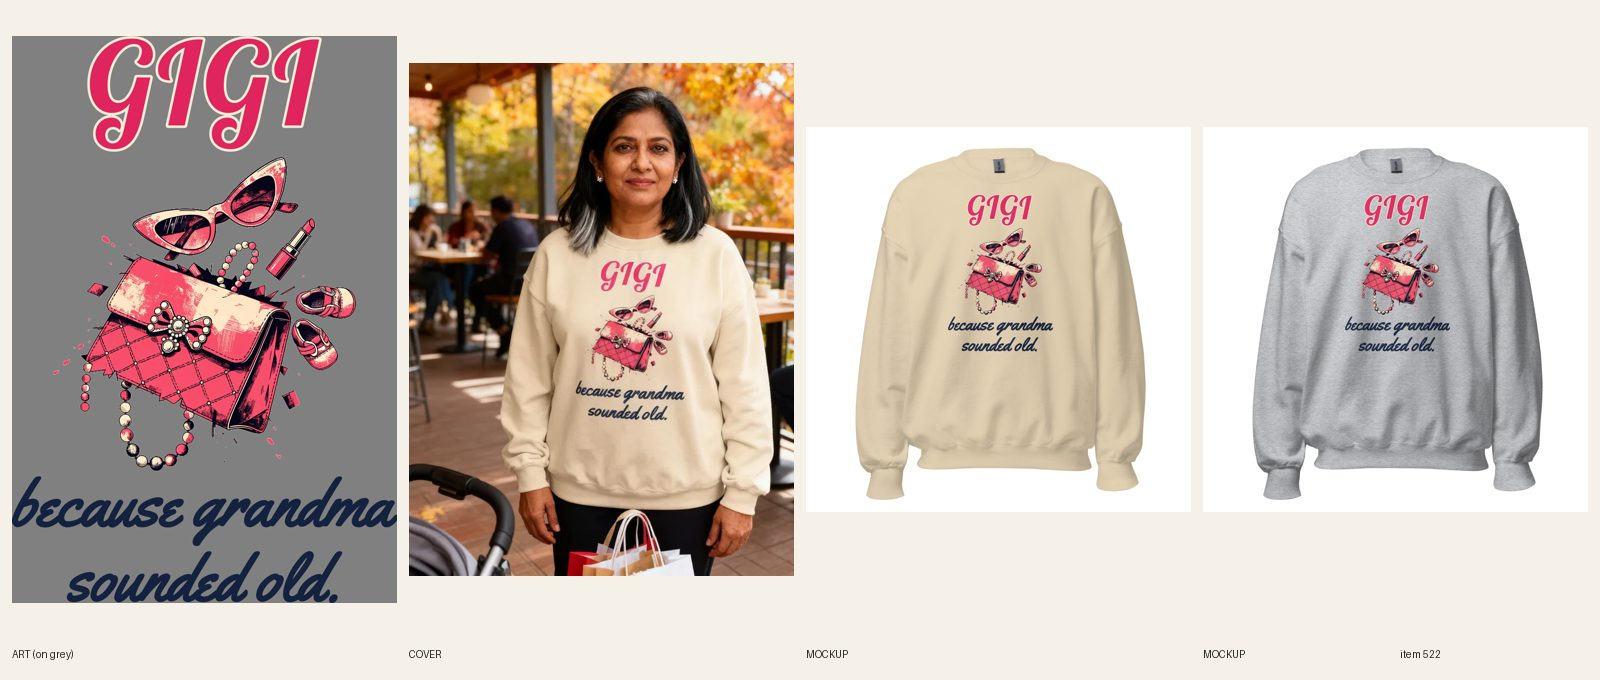
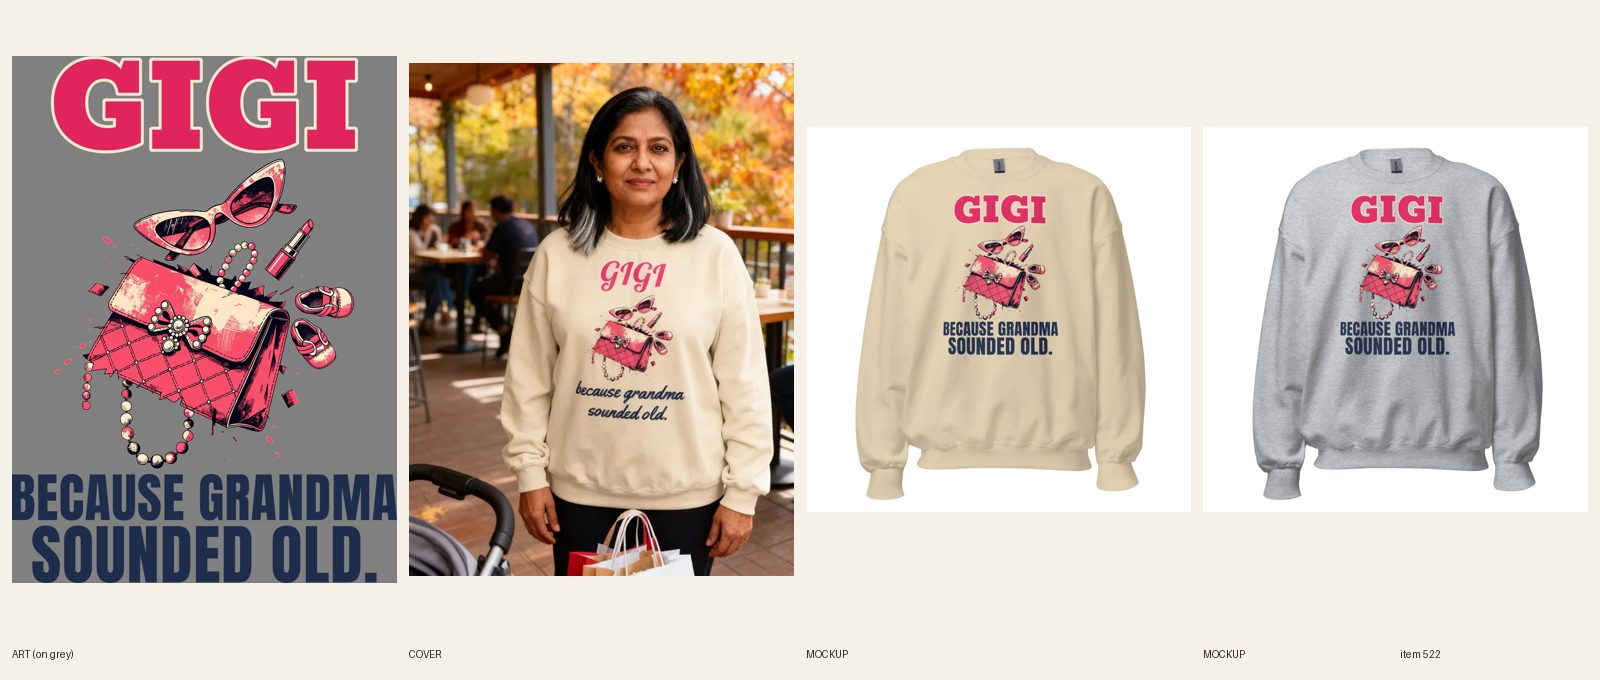
[B] review 522 Gigi crewneck (type redo)
Claude-Session: https://claude.ai/code/session_01R3UUGXWWK1qjEqDj6Mz2Rh

Changed region(s): [[0.0, 0.0309, 0.25, 0.8956], [0.8125, 0.2779, 0.9062, 0.525], [0.5938, 0.2779, 0.6875, 0.525]]

diff --git a/docs/pipeline/522-gigi-crew-because-grandma-sounded-old.md b/docs/pipeline/522-gigi-crew-because-grandma-sounded-old.md
@@ -1,4 +1,4 @@
-status: BUILDING [B] 2026-10-19 19:40
+status: REVIEW
 lane: B
 type: new
 id: 522
@@ -31,3 +31,4 @@ kd: 48
 - 2026-10-18 02:40 UTC builder [B]: full build. Art: 1 Recraft call, kept (quilted pink handbag tipped open, cat-eye sunglasses, lipstick, pearls, baby shoes). GIGI (Lobster, hot pink-red #e0245e, cream keyline, about 85% of the art width) above; "because grandma / sounded old." re-set on TWO lines in bold Yellowtail (520 px, thin same-color keyline) below, after the first one-line thin script read small on the Sport Grey mockup at phone size (7b): the joke line is now readable at 400 px. Colors Sand + Sport Grey, NOT Light Pink: the pink art and the pink GIGI vanish on Light Pink (brief's other fallback, Sand + Navy, would sink the black linework). Print 10.1 x 14.8 in (ratio 1.47): FW 1500, NOT 1650, because FW 1650 would be 2430 px tall against the 2400 px area (2325 left under TOP 75); at FW 1500 it is 2210 px. DRAFT gid 15364431315248, category aa-1-13-14, 12 variants $34.99, compareAtPrice null, tags per brief, keyword gigi sweatshirt 880/KD48 in line one and meta (map entry already present), FAQ 6 x 40-60 words incl. Dec 8. Printful file 1088627920, sync 12/12 (the first v1 file's sync was killed mid-run and FORCE re-linked all 12); mockups Sand + Sport Grey + back replaced in place with the v2 print and linked. Cover: registry 856, 1 fal photo, every word reads, hair behind the shoulders, stroller handle at the edge with no baby; no composite; alt starts "Woman". Audit-local PASS, astro build OK. fal $0.10.
 - 2026-10-18 02:45 UTC director: LIVE (ACTIVE + Online Store/Headless/Google & YouTube, audit PASS 0 warn).
 - 2026-10-18 17:22 UTC director: QUALITY RESET grade B (type only), REDO. The product stays ACTIVE (same handle, URL, title keyword). Keep the line "GIGI / because grandma sounded old." and the art. 1. Type: Headline pink script ~60% width; second line navy script, not bold lettering. 2. Quality reset type bar (docs/backlog/quality-reset.md, 'The new bar'): headline at least 90% of the art width, heavy, colors pulled from the art; second line at least 45% of the headline's height, never a thin script on a dark or mid garment; use the lettering as a shape (arch, stacked lockup, words breaking into the art), not a plain bar above and a script line below; no font used on more than 1 in 6 of the last 30 designs. 3. New print file means a new cover per R6.10 and a fresh review sheet (R7.7). While quality-reset.md says PAUSED, only lane A builds, and only the samples step 2 names.
+- 2026-10-19 19:52 UTC builder [B]: REDO type-only done. Same art (cropped from file 1088627920 to designs/b/gigi-a.png, enclosed pearl-loop white knocked out), new print designs/b/gigi.json: GIGI in Bevan hot pink #e0245e with cream keyline at full print width, BECAUSE GRANDMA / SOUNDED OLD. in two lines of Anton navy #1f2d4d (wider than the art). All fills dark/saturated (Sand + Sport Grey), no light file needed. Print 3058x4187, FW 1650 TOP 75 (ratio 1.37 fits). Printful file 1089786616, resynced 12/12. Front mockups Sand + Sport Grey replaced in place (back unchanged); Story lettering sentence updated. Phone-size read ok. Cover: plain product shot (retired-covers). fal $0. Sheet docs/review/522.jpg.

diff --git a/docs/intake-log.md b/docs/intake-log.md
@@ -1,6 +1,7 @@
+2026-10-19 19:52 UTC — [B] Builder run: redid #522 Gigi crewneck (type only: Bevan hot-pink GIGI full width + Anton navy BECAUSE GRANDMA / SOUNDED OLD., same art, FW 1650, file 1089786616, 12/12 resynced, 2 fronts replaced in place, copy updated, plain product shot). REVIEW. fal $0. Lock released.
 2026-10-19 19:44 UTC — [H] Helper run: Telegram inbox empty (getUpdates returned 0 updates; no pause, resume or TikTok links; nothing to consume). Audit (604 products): 0 errors, 30 warnings left alone (polish); no meta, SEO, collection or price errors to fix; announcement bar unchanged. Category check: 0 products without a category (Shopify query empty, no mutation). Site freshness: unisex-christmas-we-said-no-gifts-graphic-tee, mens-firefighter-yes-one-cat-once-hoodie, womens-nana-mom-said-no-thats-cute-crewneck-sweatshirt all 200. Stuck work: none (#522 BUILDING since 19:40 under 3 hours; lane B lock 19:40 and lane E lock 19:15 both under 2 hours). Daily summary not due (sent 16:05). Lock released.
-RUNNING lane B since 2026-10-19 19:40 UTC
 2026-10-19 19:48 UTC — [A] Builder run: redid #478 Women's Clocked It tee (type only: Bowlby One cream CLOCKED IT. at full art width + Anton SAID NOTHING. stacked under the same cat linework, FW 1500 (6400 area width), file 1089777092, 36/36 relinked, 6 fronts replaced in place, copy updated, plain product shot). REVIEW. fal $0. Lock released.
+RUNNING lane A since 2026-10-19 19:30 UTC
 2026-10-19 19:40 UTC — [B] Builder run: redid #521 Mimi Says Yes crewneck (type only: Bowlby One red MIMI full width + Anton navy SAYS YES., same art, FW 1650, file 1089777309, 12/12 resynced, 2 fronts replaced in place, copy updated, plain product shot). REVIEW. fal $0. Lock released.
 2026-10-19 20:00 UTC — [C] Builder run: redid #562 Women's Mimi Says Yes hoodie (type only: MIMI full-width heavy red Bowlby + SAYS / YES. stacked navy in the art void, same art at 80%, FW 1500 TOP 20, file 1089778631, 12/12 relinked, 2 fronts replaced in place, copy updated, plain product shot). REVIEW. fal $0. 1 redo per run cap reached. Lock released.
 RUNNING lane E since 2026-10-19 19:15 UTC
